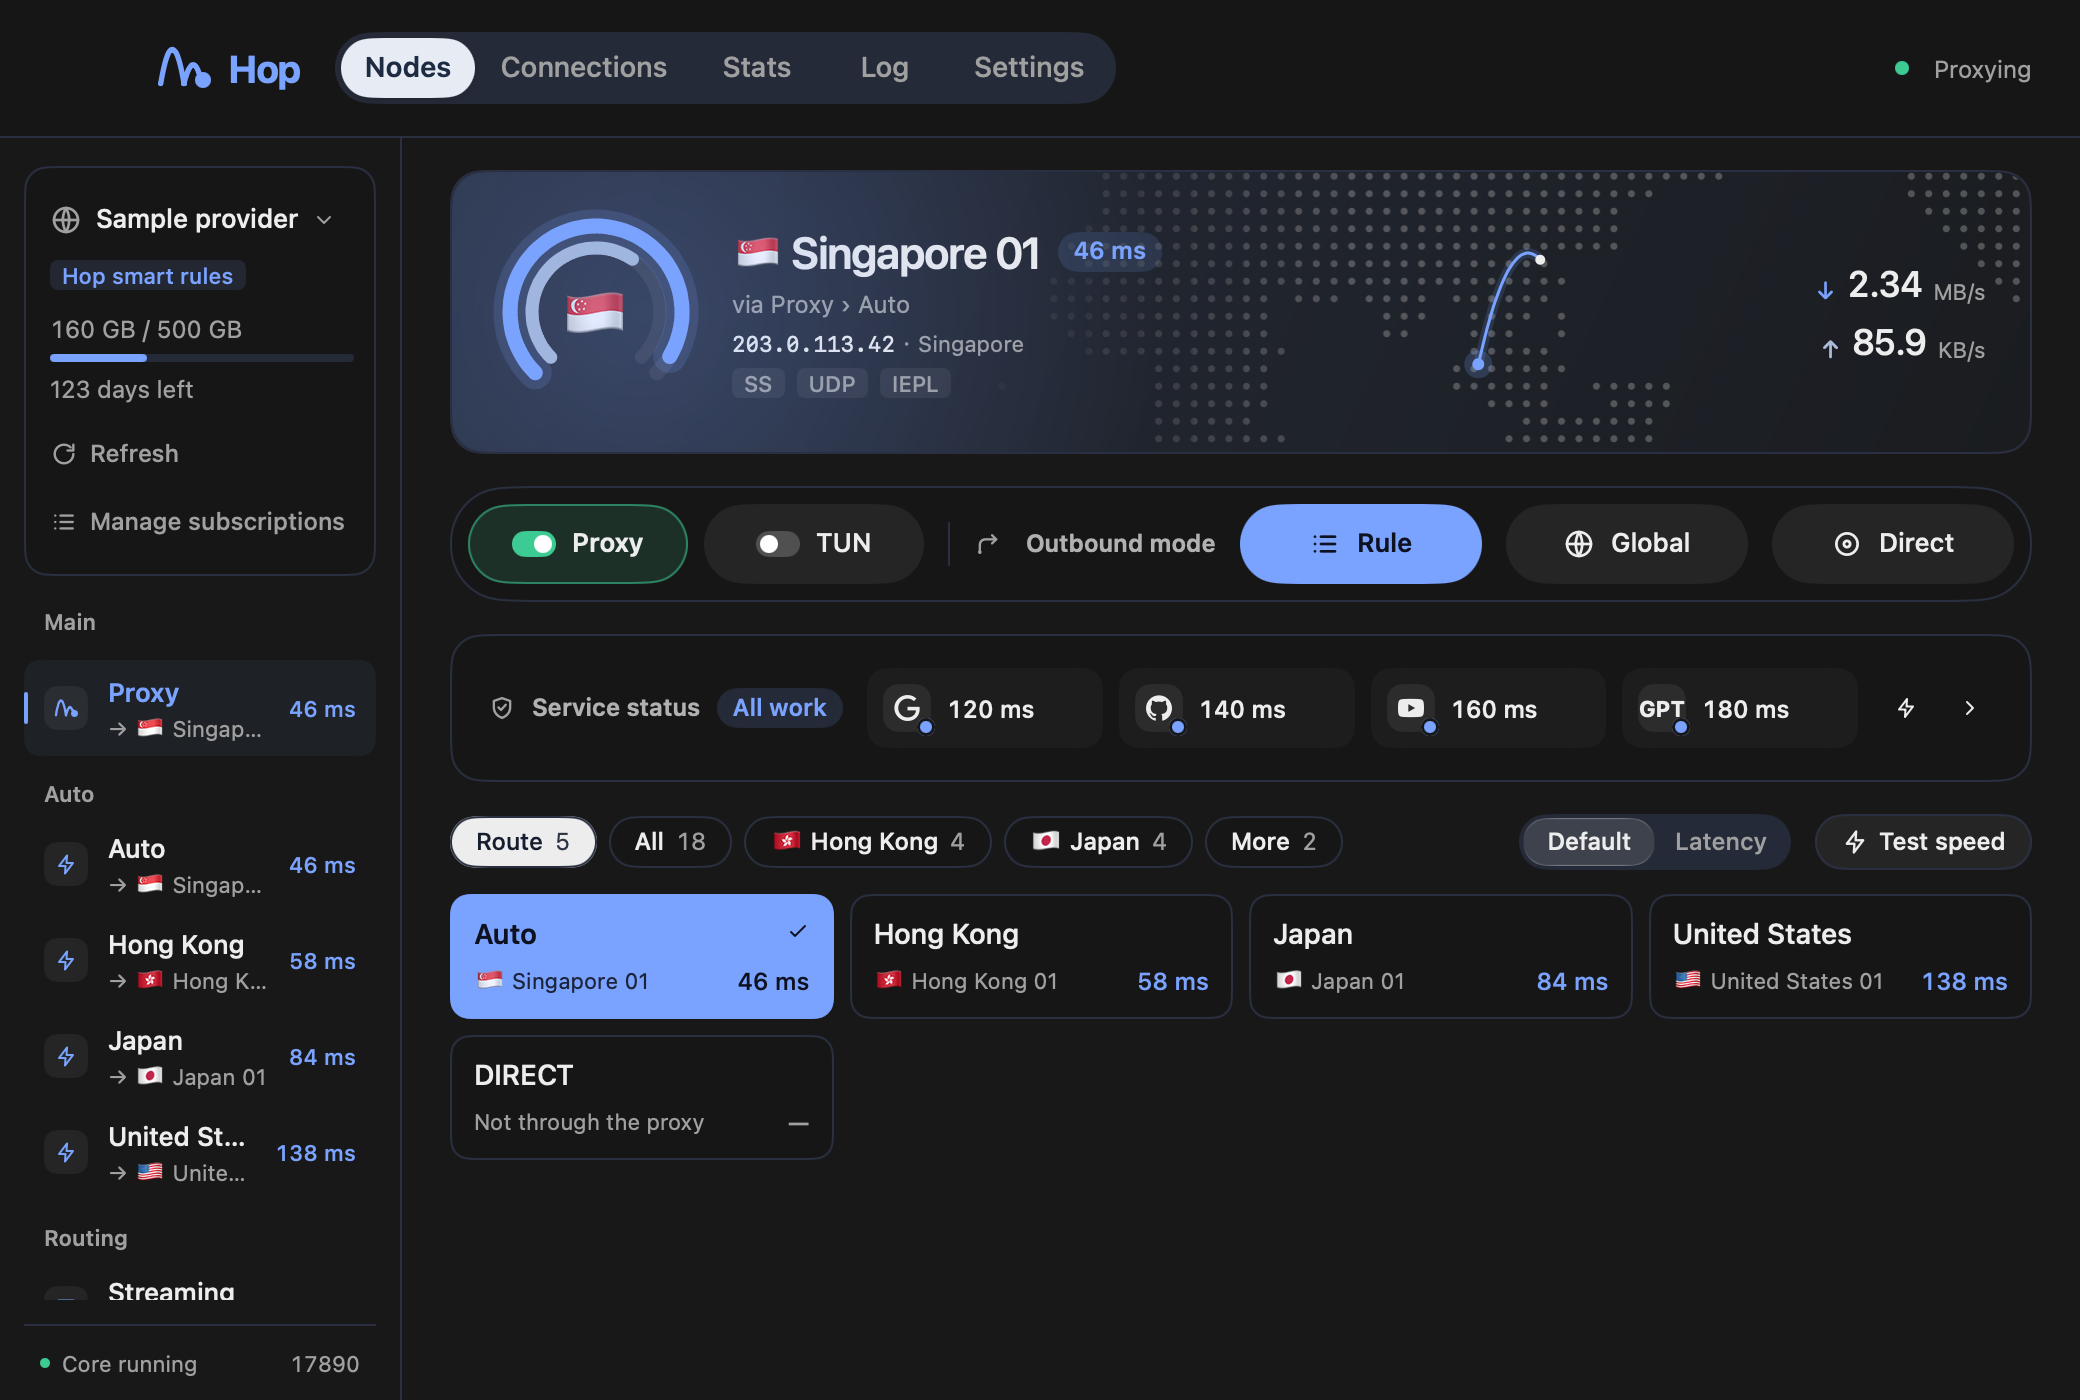
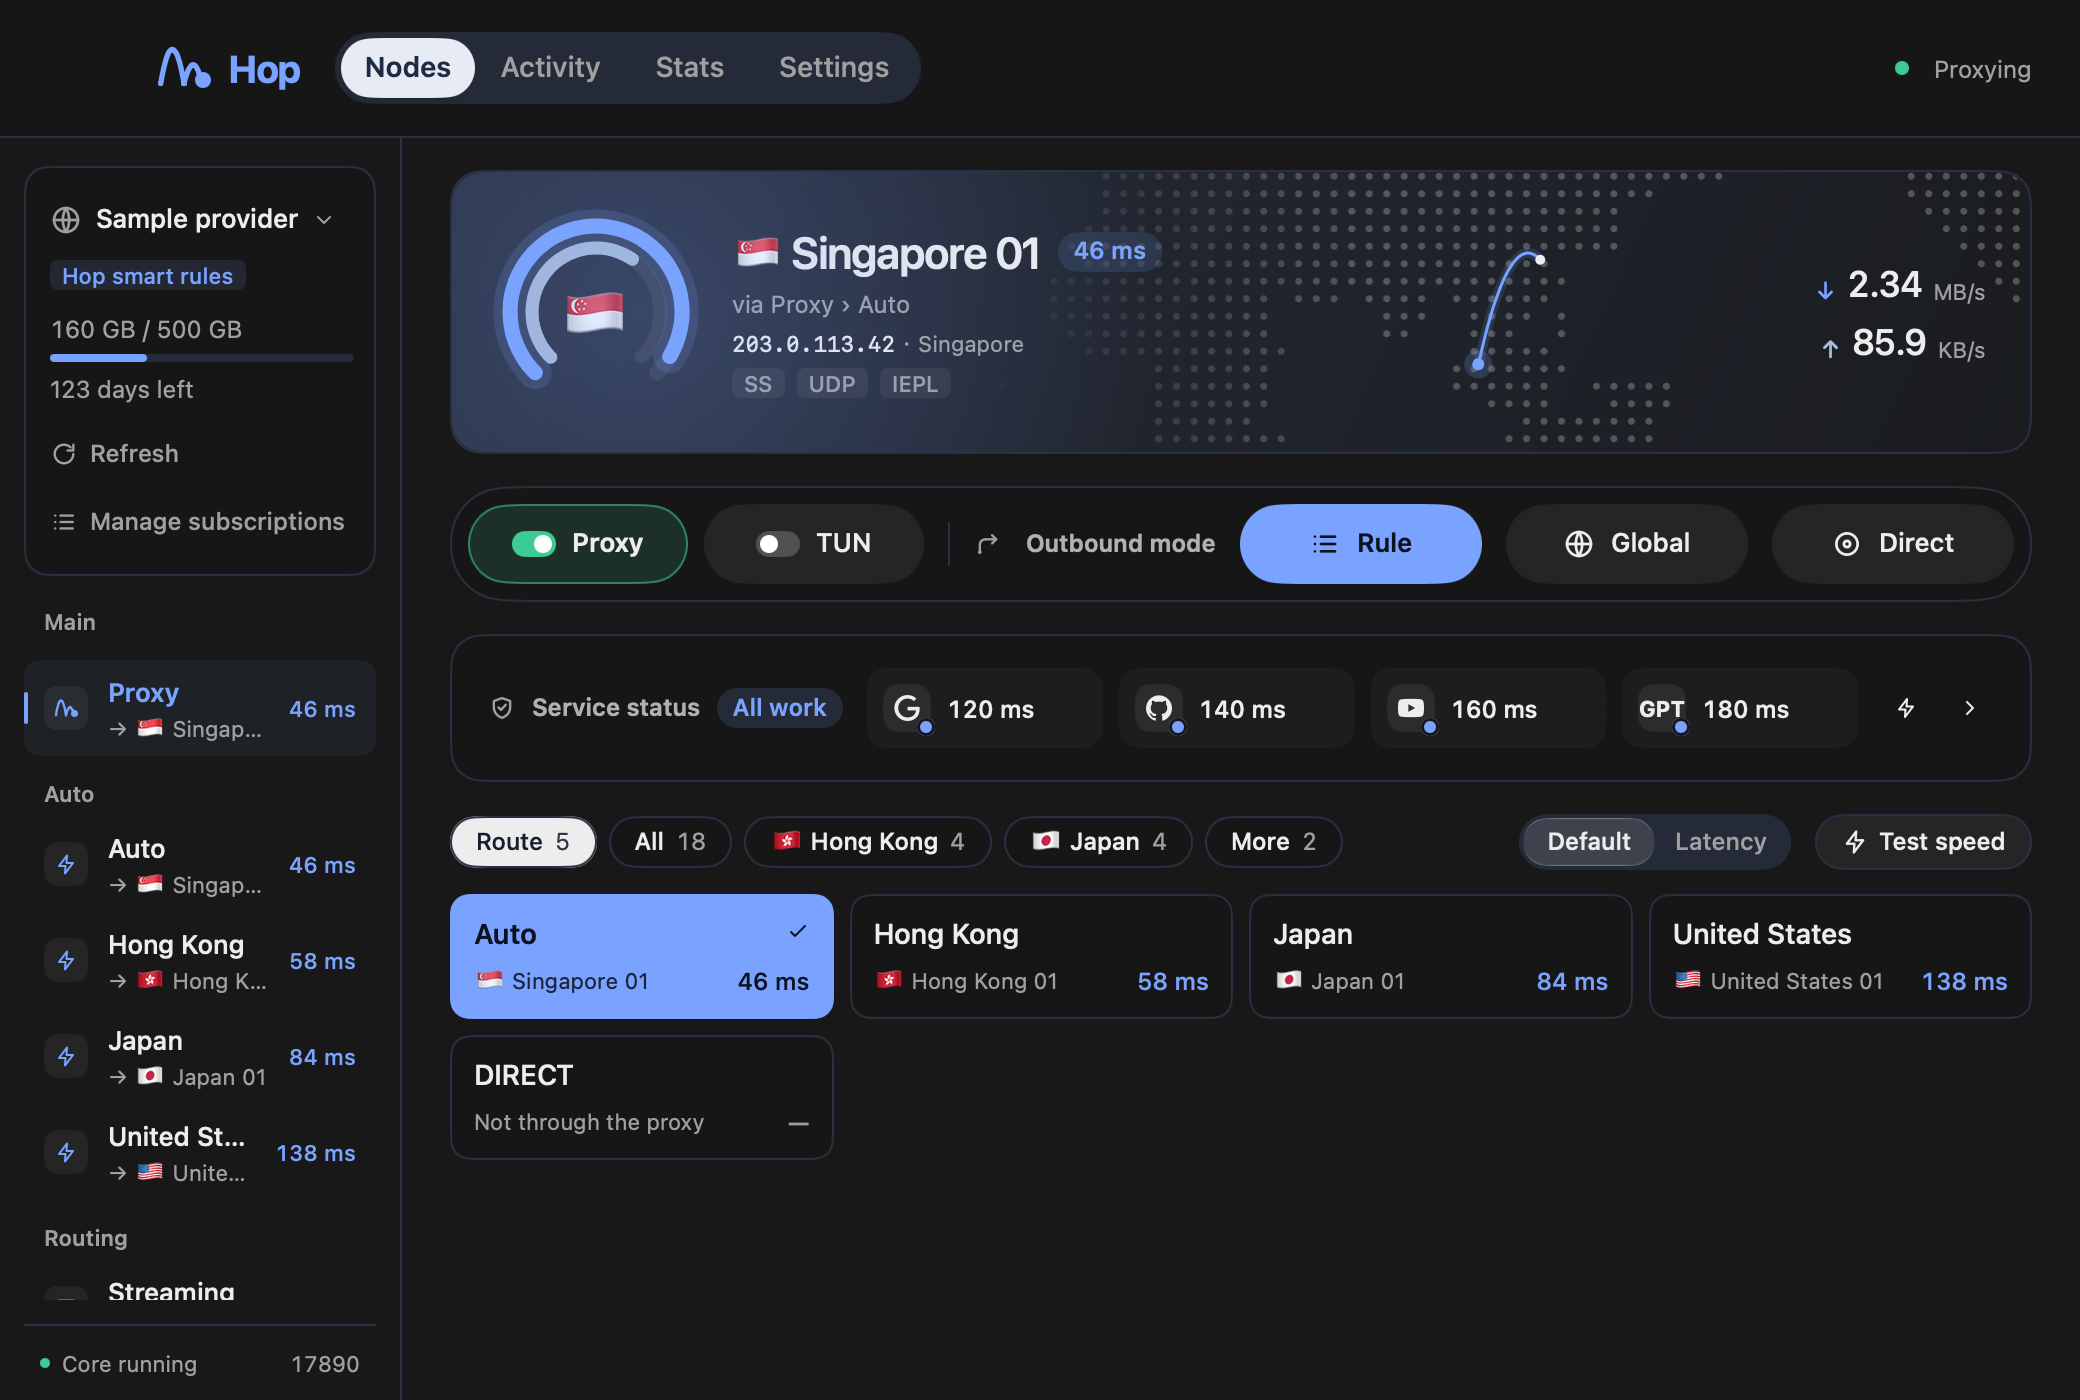
Retake the pictures and update the words for the activity page
The connections and the log are one activity page now, and the settings are
grouped again, so the screenshots are rendered from the current UI in both
languages and both schemes, and the READMEs and the site say activity where
they said the connections page.

Changed region(s): [[0.25, 0.0, 0.5625, 0.0921]]

diff --git a/docs/index.html b/docs/index.html
@@ -353,11 +353,11 @@ html[data-lang="zh"] h1 { font-size: 36px; }
     <div class="wrap">
       <header>
         <h2><span data-l="zh">每个连接走了哪条路,看得见。</span><span data-l="en">See which route every connection takes.</span></h2>
-        <p class="sub"><span data-l="zh">连接页列出每个连接的应用、命中的规则和出口节点。可以按主机、应用、规则筛选,逐个或一次关掉。</span><span data-l="en">The connections page lists each connection's app, the rule that matched and the node it leaves by. Filter by host, app or rule; close one or all.</span></p>
+        <p class="sub"><span data-l="zh">活动页列出每个连接的应用、命中的规则和出口节点,一个切换就能看内核日志。可以按主机、应用、规则筛选,逐个或一次关掉。</span><span data-l="en">The activity page lists each connection's app, the rule that matched and the node it leaves by, with the core's log one switch away. Filter by host, app or rule; close one or all.</span></p>
       </header>
       <div class="win" data-shot="connections"
-           data-alt-zh="Hop 的连接页:每个连接的应用、规则和出口"
-           data-alt-en="Hop's connections page: the app, rule and exit of each connection"></div>
+           data-alt-zh="Hop 的活动页:每个连接的应用、规则和出口"
+           data-alt-en="Hop's activity page: the app, rule and exit of each connection"></div>
     </div>
   </section>
 

diff --git a/README.zh-CN.md b/README.zh-CN.md
@@ -68,8 +68,7 @@ macOS 和 Windows 上运行。
 
 ### 洞察
 
-- **连接**:内核正在承载的每一条连接,显示应用、命中的规则和走的节点。可按主机、应用、规则或线路筛选,断开一条或全部,也可以直接加规则。
-- **日志**:内核日志实时显示,可按级别筛选。Hop 还会把自己的日志和内核的警告、错误写进日志文件(不含访问了哪些网站),在日志页点「打开日志文件夹」就能找到,出问题时发给我们。
+- **活动**:一个切换里放连接和日志。连接是内核正在承载的每一条连接,显示应用、命中的规则和走的节点。可按主机、应用、规则或线路筛选,断开一条或全部,也可以直接加规则。日志是内核日志,实时显示,可按级别筛选。Hop 还会把自己的日志和内核的警告、错误写进日志文件(不含访问了哪些网站),在活动页切到日志,点「打开日志文件夹」就能找到,出问题时发给我们。
 - **统计**:今天、本月和最近 30 天,区分代理和直连,并按订阅统计本月流量。
 
 ### 外观
@@ -85,8 +84,8 @@ macOS 和 Windows 上运行。
 </p>
 
 <p align="center">
-  <img src="docs/screenshots/connections-light.png" width="420" alt="连接页">
-  <img src="docs/screenshots/connections-dark.png" width="420" alt="深色外观下的连接页">
+  <img src="docs/screenshots/connections-light.png" width="420" alt="活动页,显示连接">
+  <img src="docs/screenshots/connections-dark.png" width="420" alt="深色外观下的活动页">
 </p>
 
 <p align="center">

diff --git a/README.md b/README.md
@@ -129,10 +129,11 @@ running in a webview, and the same code runs on macOS and Windows.
 
 ### Insight
 
-- **Connections.** Every connection the core carries, with its application,
+- **Activity.** Under one switch, the connections and the log. The connections
+  are every connection the core carries, with its application,
   the rule that matched and the node it leaves by. Filter by host, application,
-  rule or route; close one or all; add a rule.
-- **Logs.** The core's log, live, with a level filter. Hop also keeps a log file
+  rule or route; close one or all; add a rule. The log is the core's, live, with
+  a level filter. Hop also keeps a log file
   (Hop's own messages and the core's warnings and errors, no browsing history)
   that "Open log folder" shows, to send when something goes wrong.
 - **Statistics.** Today, this month and the last 30 days, split into proxied and
@@ -155,8 +156,8 @@ running in a webview, and the same code runs on macOS and Windows.
 </p>
 
 <p align="center">
-  <img src="docs/screenshots/en/connections-light.png" width="420" alt="The connections page">
-  <img src="docs/screenshots/en/connections-dark.png" width="420" alt="The connections page in dark appearance">
+  <img src="docs/screenshots/en/connections-light.png" width="420" alt="The activity page, showing the connections">
+  <img src="docs/screenshots/en/connections-dark.png" width="420" alt="The activity page in dark appearance">
 </p>
 
 <p align="center">
